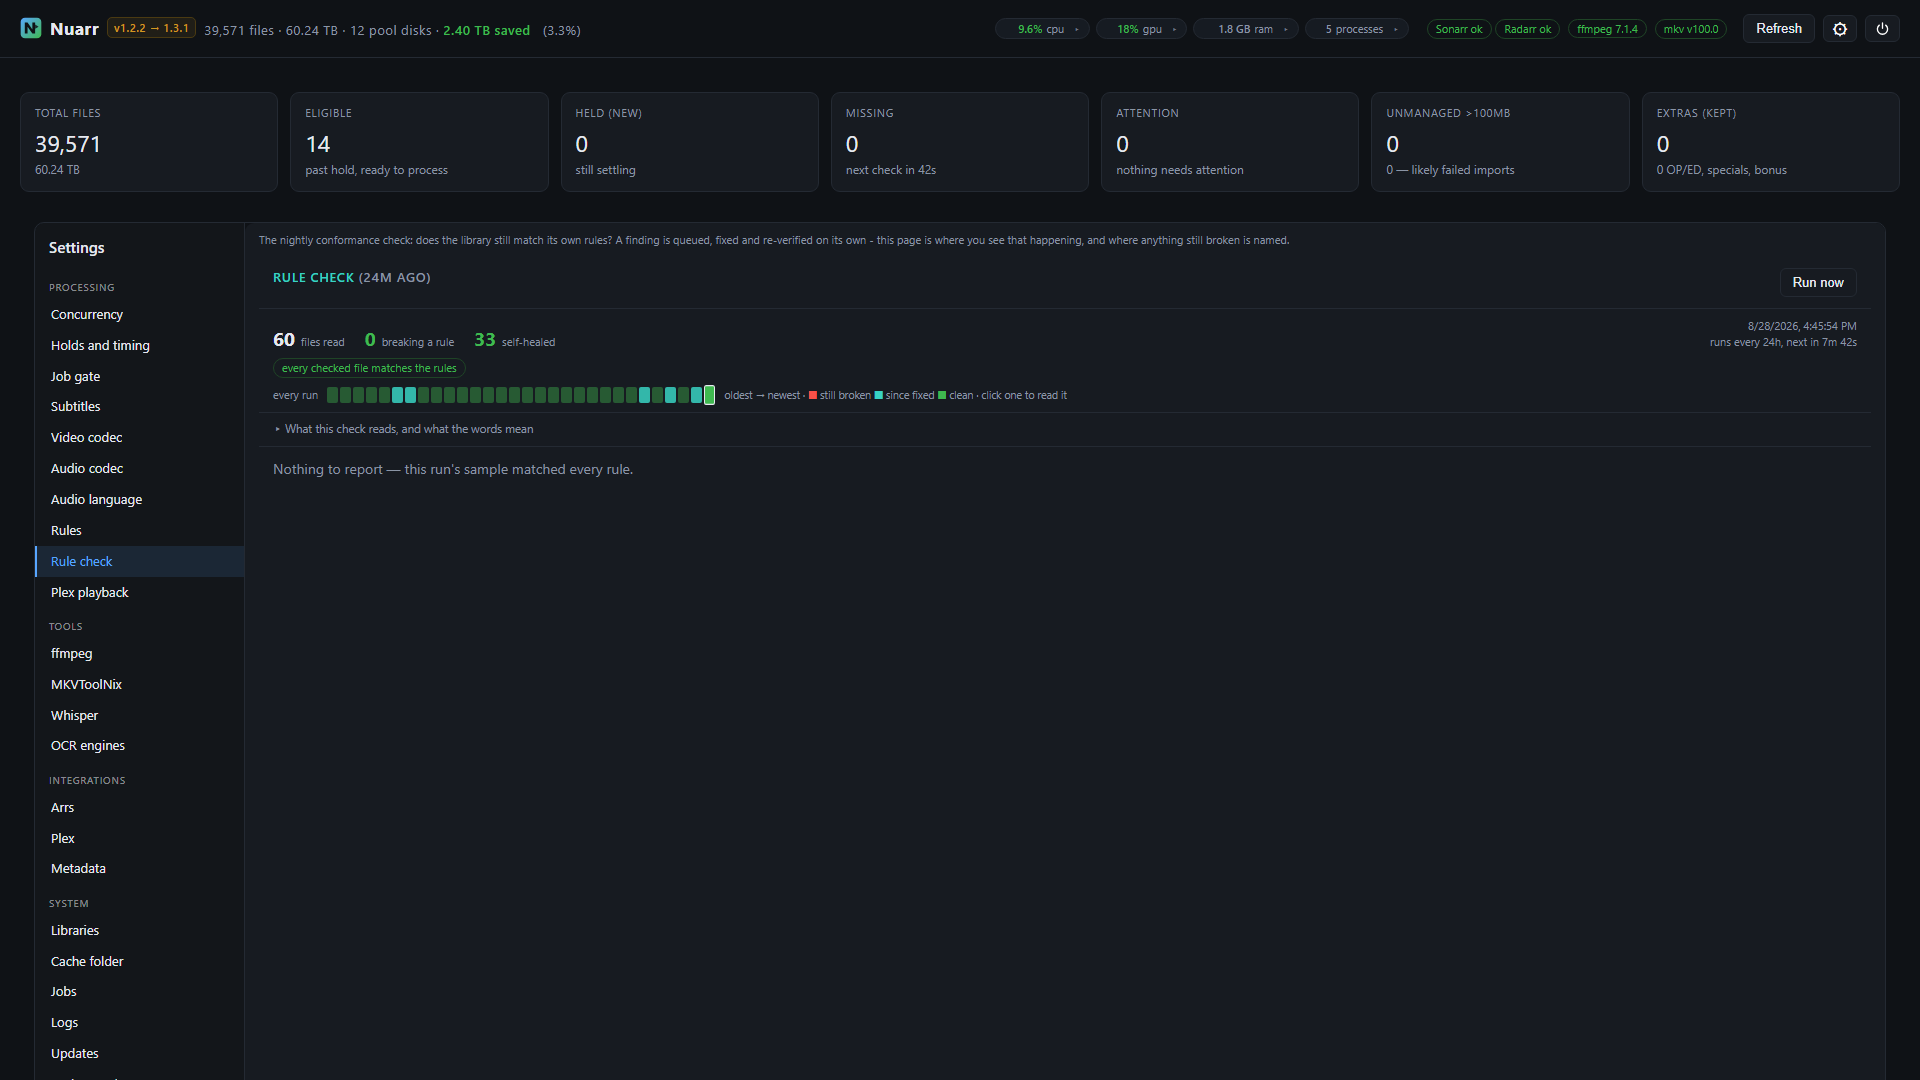
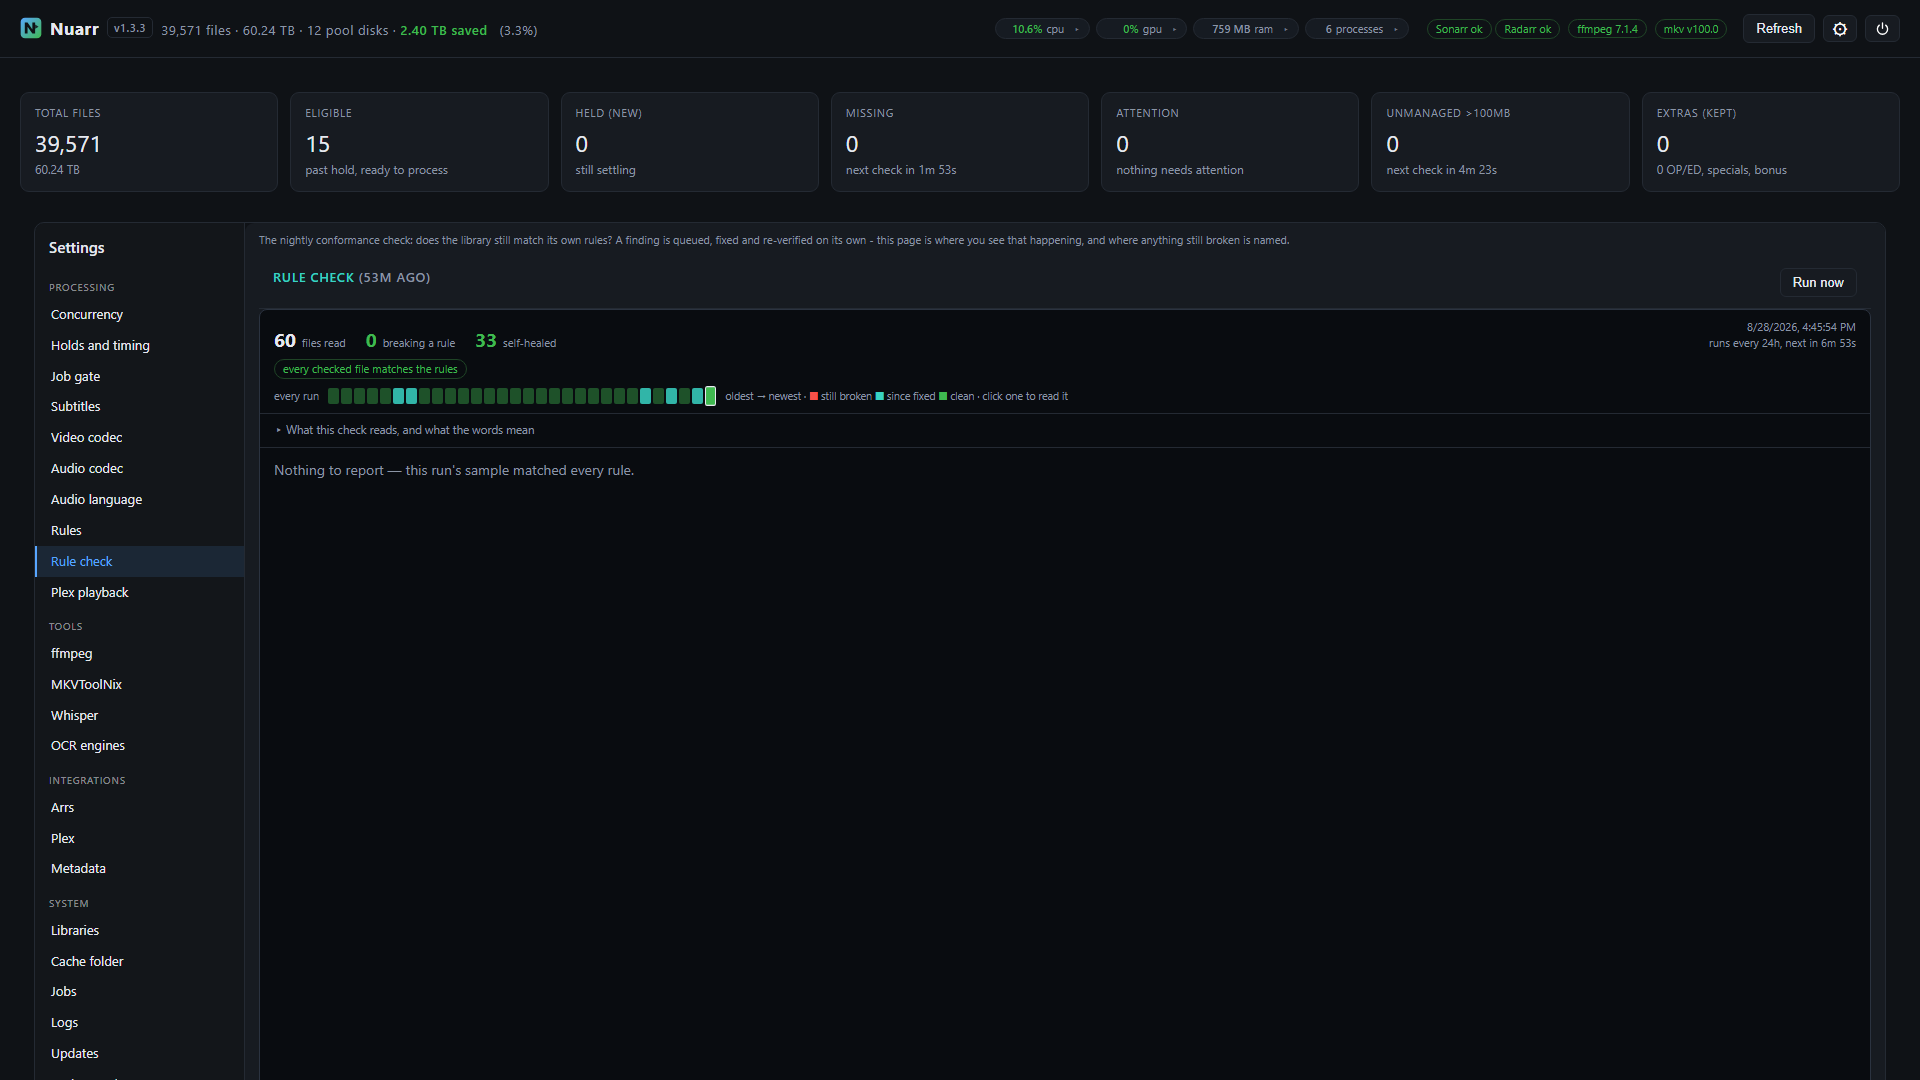
nuarr 1.3.4 - the scroll box spans the settings panel and you can see it: framed, filled, flush with the panel bottom

diff --git a/app/web.py b/app/web.py
@@ -21012,18 +21012,30 @@ _SETTINGS_CSS = """
    fill the page; many rows scroll inside it with the heading and buttons
    staying put. min-height:0 on every level because a flex child defaults to
    min-content and would otherwise refuse to shrink. */
-/* SIZED TO THE VIEWPORT, NOT THE HOST - the same calc the Logs page uses.
-   height:100% filled the settings host, but the host has a min-height of its
-   own (882px), so on a shorter window the panel ran below the fold, and on a
-   taller one it stopped short of the bottom. 100vh is the window itself:
-   the list's bottom edge lands where Logs' does, whatever the screen. */
+/* SIZED TO THE SETTINGS PANEL, WITH A BOX YOU CAN SEE. Two attempts missed
+   what was actually being asked. The flex-fill and the viewport calc both
+   made the scroll area TALL - but everything here is the same black, so a
+   short list looked identical either way: seven rows, then nothing, and no
+   way to tell whether the box beneath them reached the panel or stopped at
+   the last row. The viewport calc also chased the window while the panel
+   is sized by the settings host, so the two bottoms could never agree.
+   height:100% ties the pane to the panel it lives in - flush bottom on any
+   screen - and the frame below makes the fit visible instead of takeable
+   on faith. */
 #plexworkPane, #ruleschkPane{display:flex;flex-direction:column;
-  height:calc(100vh - 190px);min-height:420px}
+  height:100%;min-height:420px}
 #plexworkBody, #ruleschkBody{flex:1;display:flex;flex-direction:column;
   min-height:0;padding-bottom:0}
 #plexworkBody > h2, #ruleschkBody > h2{flex:0 0 auto}
 #plexworkPane .fullpane, #ruleschkPane .fullpane{
-  flex:1 1 auto;min-height:220px;overflow:auto;overflow-x:hidden}
+  flex:1 1 auto;min-height:220px;overflow:auto;overflow-x:hidden;
+  /* THE VISIBLE FRAME. First cut used var(--line) on a background four RGB
+     points off the page - applied, measured, and invisible, which defeats
+     a frame whose whole job is to show that the box spans the panel. The
+     border is the scrollbar-thumb colour (already established as "chrome"
+     here), the fill is genuinely darker than the page. */
+  border:1px solid #2b3340;border-radius:8px;background:#090c10;
+  margin-bottom:12px}
 #plexworkPane table, #ruleschkPane table{width:100%}
 
 /* The per-library subtitle-handling block, inside the expanded library. */

diff --git a/app/version.py b/app/version.py
@@ -22,7 +22,7 @@ import re
 #         setting that moved, anything that could surprise an existing install)
 # minor - a new capability
 # patch - a fix to something that was already meant to work
-VERSION = "1.3.3"
+VERSION = "1.3.4"
 
 # Filled in when a bundle is built, so a running install can say not just what
 # it is but when it was made. Left empty in a source checkout on purpose - an
